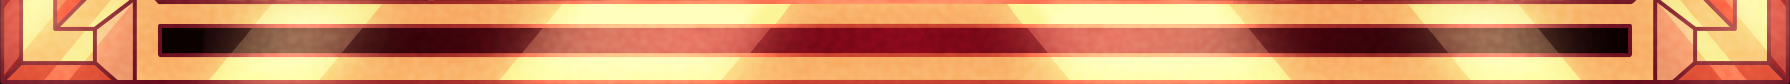
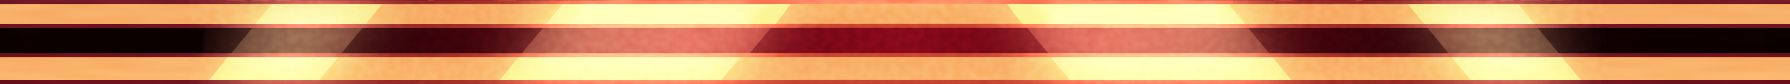
Border Edge Fix

Changed region(s): [[0.8911, 0.0, 1.0, 0.9762], [0.0, 0.0, 0.0922, 0.9762]]

diff --git a/gbcss/HazbinHotel/Lucifer.css b/gbcss/HazbinHotel/Lucifer.css
@@ -57,35 +57,34 @@ body {
     /* 1–4: corners (TOP LAYER) */
     url('https://phencyclidine08.github.io/gbcss/HazbinHotel/Lucifer/frame_corner_tl.png') top left no-repeat,
     url('https://phencyclidine08.github.io/gbcss/HazbinHotel/Lucifer/frame_corner_tr.png') top right no-repeat,
-    url('https://phencyclidine08.github.io/gbcss/HazbinHotel/Lucifer/frame_corner_br.png') bottom right no-repeat,
-    url('https://phencyclidine08.github.io/gbcss/HazbinHotel/Lucifer/frame_corner_bl.png') bottom left no-repeat,
+    url('https://phencyclidine08.github.io/gbcss/HazbinHotel/Lucifer/frame_corner_bl.png') bottom right no-repeat,
+    url('https://phencyclidine08.github.io/gbcss/HazbinHotel/Lucifer/frame_corner_br.png') bottom left no-repeat,
 
-    /* 5–8: borders (UNDER corners) */
+    /* 5–8: side borders (UNDER corners) */
     url('https://phencyclidine08.github.io/gbcss/HazbinHotel/Lucifer/frame_top.png') top center no-repeat,
     url('https://phencyclidine08.github.io/gbcss/HazbinHotel/Lucifer/frame_right.png') center right repeat-y,
     url('https://phencyclidine08.github.io/gbcss/HazbinHotel/Lucifer/frame_bottom.png') bottom center no-repeat,
     url('https://phencyclidine08.github.io/gbcss/HazbinHotel/Lucifer/frame_left.png') center left repeat-y,
 
-    /* 9: content background (bottom layer) */
+    /* 9: background fill */
     var(--HazbinRedGradient);
 
   background-size:
-    26px 26px,   /* top-left corner */
-    26px 26px,   /* top-right corner */
-    26px 26px,   /* bottom-right corner */
-    26px 26px,   /* bottom-left corner */
+    86px 86px,   /* top-left corner */
+    86px 86px,   /* top-right corner */
+    86px 86px,   /* bottom-right corner */
+    86px 86px,   /* bottom-left corner */
 
-    100% 26px,   /* top border */
-    26px 100%,   /* right border */
-    100% 26px,   /* bottom border */
-    26px 100%,   /* left border */
+    100% 26px,   /* top border: full width, 26px height */
+    26px 100%,   /* right border: 26px width, full height */
+    100% 26px,   /* bottom border: full width, 26px height */
+    26px 100%,   /* left border: 26px width, full height */
 
     cover;
 
-  padding: 26px; /* All sides — to match border/corner image thickness */
+  padding: 26px; /* Matches border/corner size */
   overflow: visible;
 }
-
 
 
 
